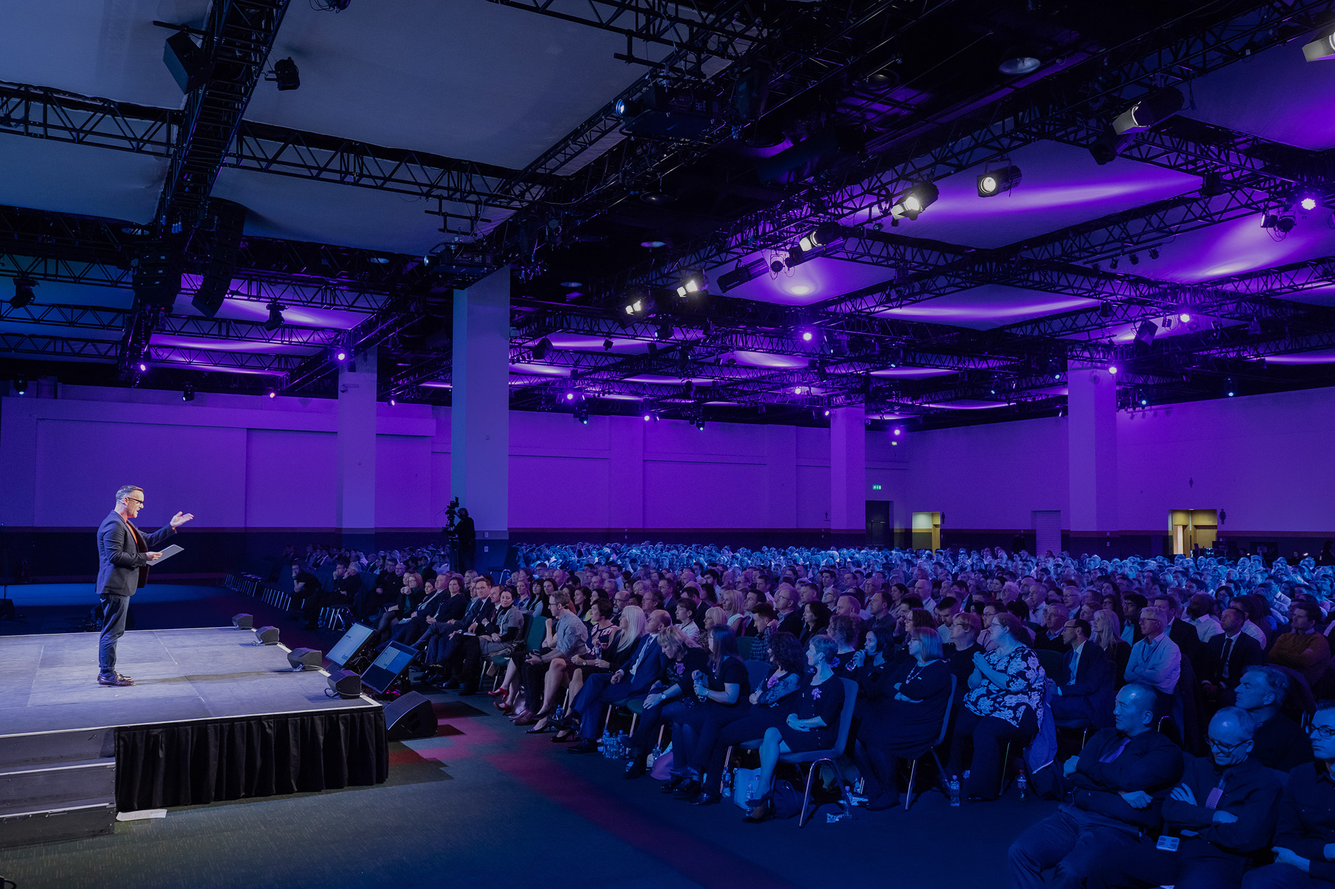
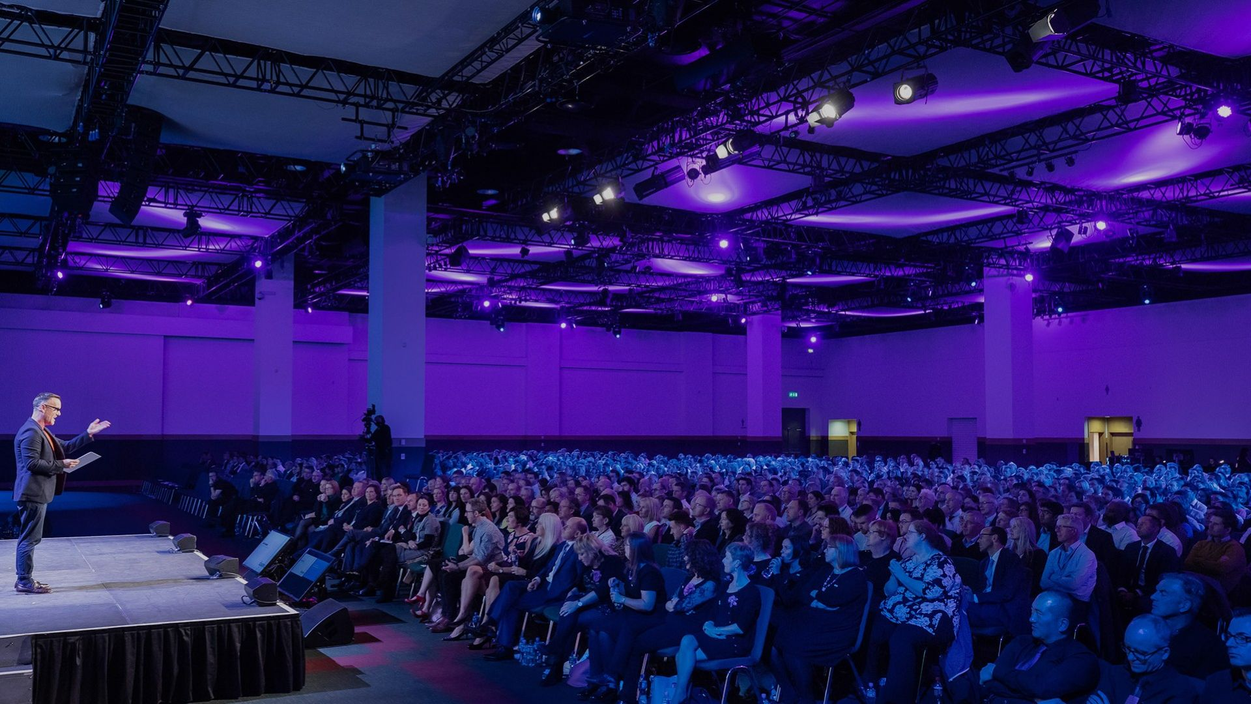
adjusted sizing of images

diff --git a/client/src/App.jsx b/client/src/App.jsx
@@ -15,7 +15,7 @@ function App() {
     return (
         <Router>
             <Routes>
-                <Route path="/signup" element={<SignUp />} />
+                <Route path="/" element={<SignUp />} />
                 <Route path="/login" element={<LoginPage />} />
                 <Route path="/homepage" element={<HomePage />} />
                 <Route path="/Articles" element={<Articles />} />

diff --git a/client/src/components/Events/ImageSlider.jsx b/client/src/components/Events/ImageSlider.jsx
@@ -20,14 +20,14 @@ const ImageSlider = ({ images, interval = 5000 }) => {
 
 const styles = {
   slider: {
-    width: '80vw',
-    height: "50vh",
+    width: '100%',
+    height: "100%",
     overflow: 'hidden',
     position: 'relative',
   },
   image: {
-    width: '100%',
-    height: '100%',
+    width: '90%',
+    height: '90%',
     objectFit: 'cover',
   },
 };

diff --git a/client/src/components/Login-page.jsx b/client/src/components/Login-page.jsx
@@ -10,7 +10,7 @@ function LoginPage() {
     const [error, setError] = useState('');
 
     const handleSignUpClick = () => {
-        navigate('/signup');
+        navigate('/');
     };
 
     const handleLoginSubmit = (e) => {
